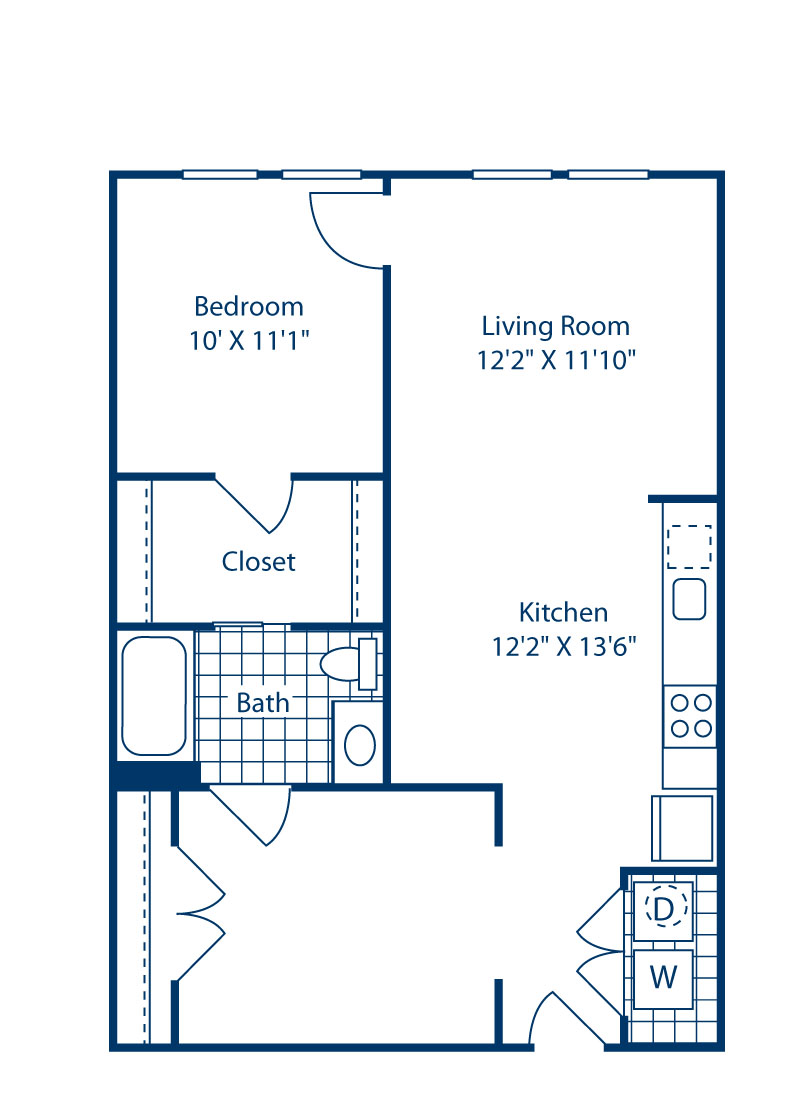
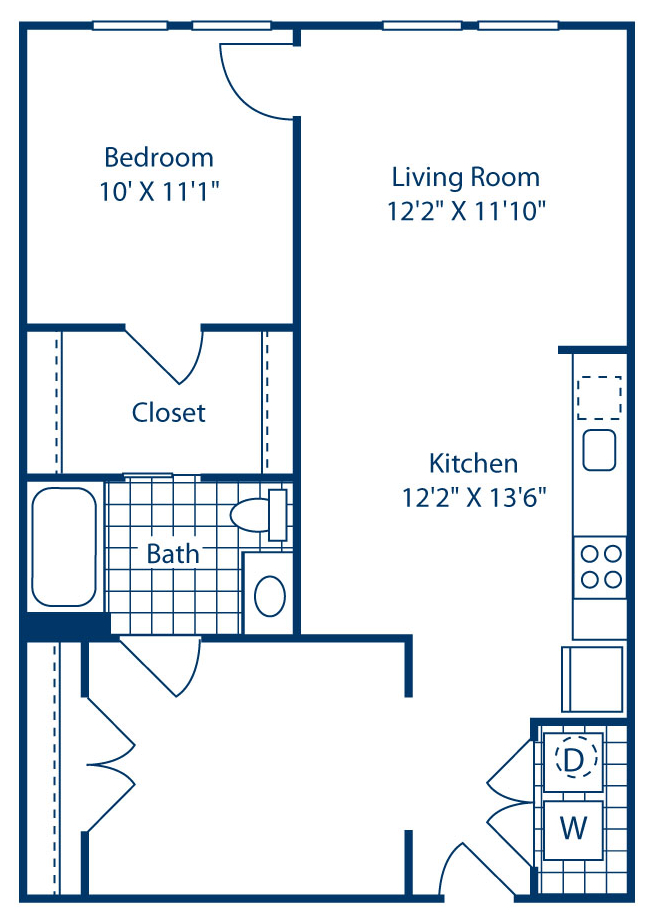
Cropped Images

diff --git a/styles.css b/styles.css
@@ -71,6 +71,8 @@ li img {
 .floor-plan-detail-image {
   height: 600px;
   float: left;
+  border: 3px solid #B46697;
+  margin-right: 40px;
 }
 
 td {
